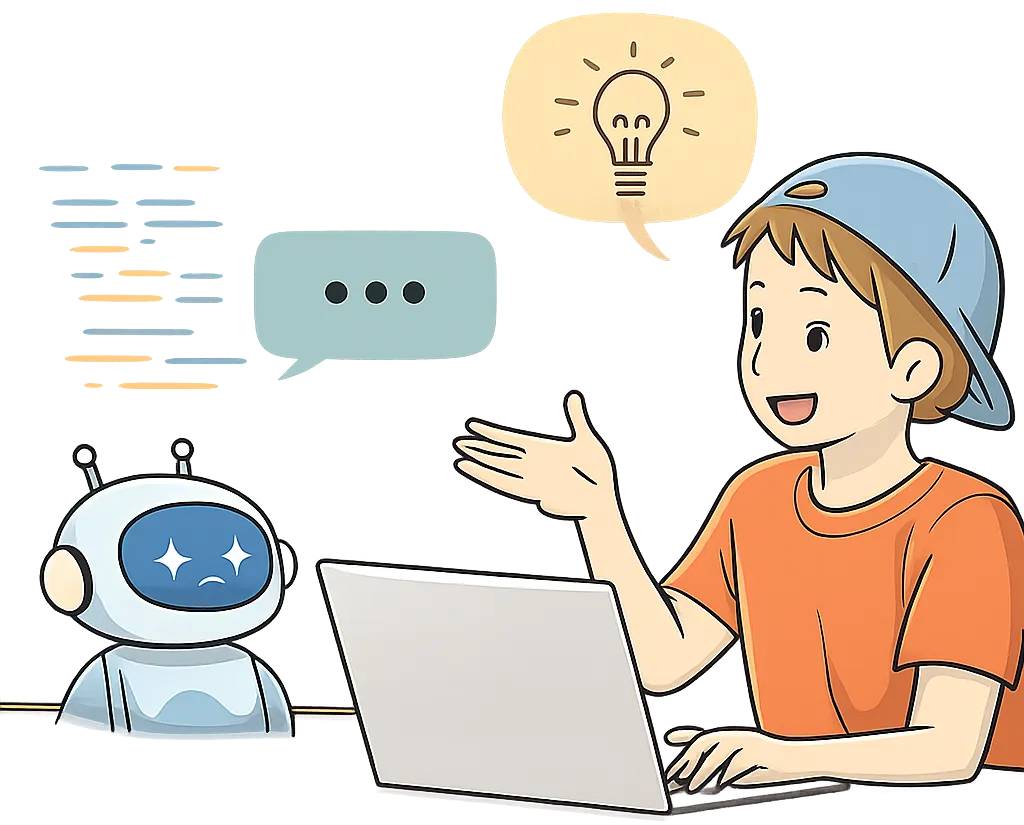
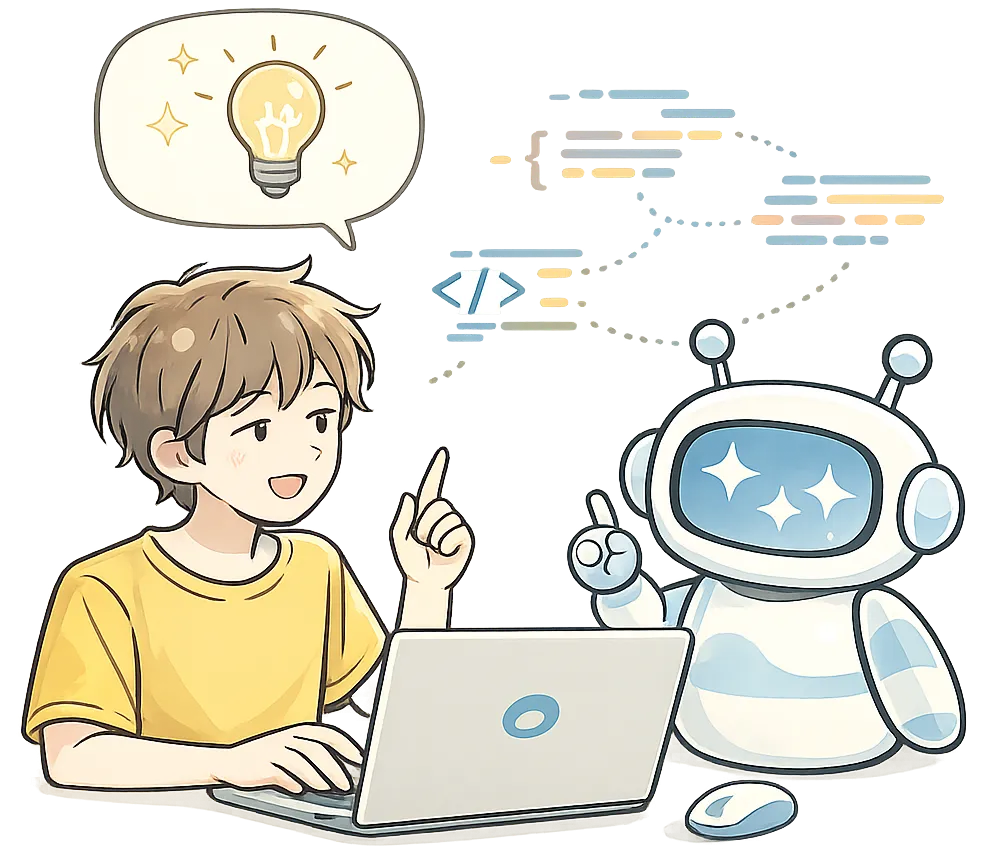
画像を調整！だいぶよい

diff --git a/index.html b/index.html
@@ -166,10 +166,10 @@
         </p>
       </div>
       <div class="card-illustration fade">
-        <div class="ink-bg" style="--ink-color: #E0F2FE; width: 220px;">
+        <div class="ink-bg" style="--ink-color: #ffe4a0; width: 220px;">
           <picture>
-            <source srcset="images/lab_desc2.webp" type="image/webp">
-            <img src="images/lab_desc2.png" alt="AIプログラミングに慣れること" loading="lazy">
+            <source srcset="images/lab_desc4.webp" type="image/webp">
+            <img src="images/lab_desc4.png" alt="AIプログラミングに慣れること" loading="lazy">
           </picture>
         </div>
       </div>
@@ -318,6 +318,12 @@
       <div class="max-560">
         <h3>体験ワークショップ</h3>
 
+        <picture>
+          <source srcset="images/trial.webp" type="image/webp">
+          <img src="images/trial.png" class="img-center radius1" style="width: 400px;" alt="体験ワークショップ">
+        </picture>
+        <br>
+
         <div class="text-center">
           <a href="https://forms.gle/FraxsXaSLXf7o53f6"
             target="_blank"
@@ -356,24 +362,42 @@
 
         <div class="course-cards">
           <div class="course-card junior margin-bottom">
-            <h3>つくラボ ジュニア</h3>
-            <div class="course-target">小学校4年生〜中学生対象</div>
+            <div class="course-header margin-bottom">
+              <picture>
+                <source srcset="images/course1.webp" type="image/webp">
+                <img src="images/course1.png" alt="つくラボ ジュニア" style="width: 100px;">
+              </picture>
+
+              <div class="course-text">
+                <h3>つくラボ ジュニア</h3>
+                <div class="course-target">小学校4年生〜中学生対象</div>
+              </div>
+            </div>
             
-            <span class="font-15">
+            <div class="font-15">
               AIを使ってゲームやアプリを作りながら、「プログラムを動かして、改造する」ことがゴールです。<br>
               その体験を通して、<strong>「私にも作れる」という自信</strong>を育みます。
-            </span>
+            </div>
           </div>
         
           <div class="course-card creator margin-bottom">
-            <h3>つくラボ クリエイター</h3>
-            <div class="course-target">高校生〜大人対象</div>
+            <div class="course-header margin-bottom">
+              <picture>
+                <source srcset="images/course2.webp" type="image/webp">
+                <img src="images/course2.png" alt="つくラボ クリエイター" style="width: 100px;">
+              </picture>
 
-            <span class="font-15">
+              <div class="course-text">
+                <h3>つくラボ クリエイター</h3>
+                <div class="course-target">高校生〜大人対象</div>
+              </div>
+            </div>
+
+            <div class="font-15">
               ゲームやアプリを作りながら、プログラミングの知識も学びます。<br>
               AIが書き出したコードの意味を理解し、応用できる力を身につけます。<br>
               また、仕事に役立つツールも制作し、進路設計や副業にも貢献することを目的としています。
-            </span>
+            </div>
           </div>
         </div>
 
@@ -388,10 +412,12 @@
           継続スクールについて
         </h3>
 
-        <p class="note">
+        <p class="font-15">
           ５月以降、継続して通えるスクールの開講を予定しています。<br>
-          ・ジュニア（60分）月謝6,600円〜8,800円<br>
-          ・クリエイター（90分）月謝10,000円〜12,000円<br>
+          ・ジュニア（60分）月謝7,700円〜8,800円<br>
+          ・クリエイター（90分）月謝11,000円〜12,000円
+        </p>
+        <p class="font-15">
           どちらも月3回開催を検討中です。<br>
           詳細は体験時にご案内します。
         </p>
@@ -402,16 +428,6 @@
   <footer>
     © つくラボ
   </footer>
-
-  <!-- DEMO MODAL -->
-  <div id="demoModal" class="modal">
-    <div class="modal-bg"></div>
-
-    <div class="modal-content">
-      <button class="modal-close">×</button>
-      <iframe id="demoFrame" src=""></iframe>
-    </div>
-  </div>
 
   <script src="script.js"></script>
 

diff --git a/style.css b/style.css
@@ -196,7 +196,7 @@ a:not(.btn):hover {
 
 .teacher-title {
   font-size: 0.95rem;
-  color: #c5744e;
+  color: #535353;
   margin: 4px 0 0;
 }
 
@@ -281,7 +281,6 @@ a:not(.btn):hover {
 @media (max-width: 600px) {
   .teacher-gallery {
     grid-template-columns: 1fr;
-    /* ← ここが重要 */
   }
 
   .teacher-gallery picture:nth-child(n + 2) {
@@ -290,30 +289,40 @@ a:not(.btn):hover {
 
   .teacher-gallery img {
     height: auto;
-    /* ← 画像を自然な高さに */
     aspect-ratio: 16 / 9;
-    /* ← 見た目を安定させたい場合 */
   }
 }
 
 .teacher-message p {
   line-height: 1.9;
-  /* 読みやすさアップ */
   margin-bottom: 1.2em;
 }
 
 .teacher-message h3 {
   text-align: center;
-  /* 見出しだけ中央 */
   margin-bottom: 24px;
 }
 
 /* ===== course cards ===== */
 .course-card {
   background: #fafafa;
-  /* うっすら背景 */
   border-radius: 16px;
   padding: 24px;
+}
+
+.course-header {
+  display: flex;
+  align-items: center;
+  gap: 16px;
+}
+
+.course-image {
+  width: 96px;
+  /* 少しだけ品よく */
+  max-width: 100%;
+  height: auto;
+  flex-shrink: 0;
+  /* 重要：潰れ防止 */
 }
 
 .course-card h3 {
@@ -324,7 +333,6 @@ a:not(.btn):hover {
 .course-target {
   font-size: 0.9rem;
   color: #666;
-  margin-bottom: 16px;
 }
 
 .course-card p {
@@ -430,6 +438,10 @@ a:not(.btn):hover {
   font-weight: 600;
 }
 
+.radius1 {
+  border-radius: 8px;
+}
+
 footer {
   text-align: center;
   padding: 40px 20px;
@@ -447,51 +459,4 @@ footer {
 .fade.show {
   opacity: 1;
   transform: translateY(0);
-}
-
-/* ===== modal ===== */
-.modal {
-  position: fixed;
-  inset: 0;
-  display: none;
-  z-index: 1000;
-}
-
-.modal.show {
-  display: block;
-}
-
-.modal-bg {
-  position: absolute;
-  inset: 0;
-  background: rgba(0,0,0,0.6);
-}
-
-.modal-content {
-  position: relative;
-  width: 90%;
-  max-width: 800px;
-  height: 80vh;
-  margin: 5vh auto;
-  background: #fff;
-  border-radius: 12px;
-  overflow: hidden;
-  box-shadow: 0 20px 50px rgba(0,0,0,0.3);
-}
-
-.modal-content iframe {
-  width: 100%;
-  height: 100%;
-  border: none;
-}
-
-.modal-close {
-  position: absolute;
-  top: 8px;
-  right: 12px;
-  font-size: 24px;
-  background: none;
-  border: none;
-  cursor: pointer;
-  z-index: 2;
 }
